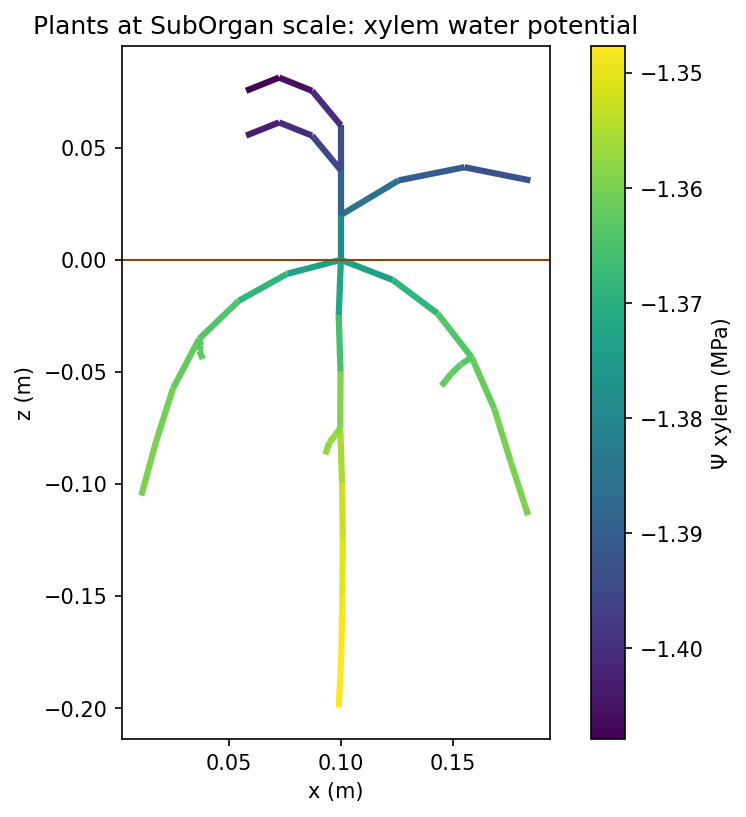
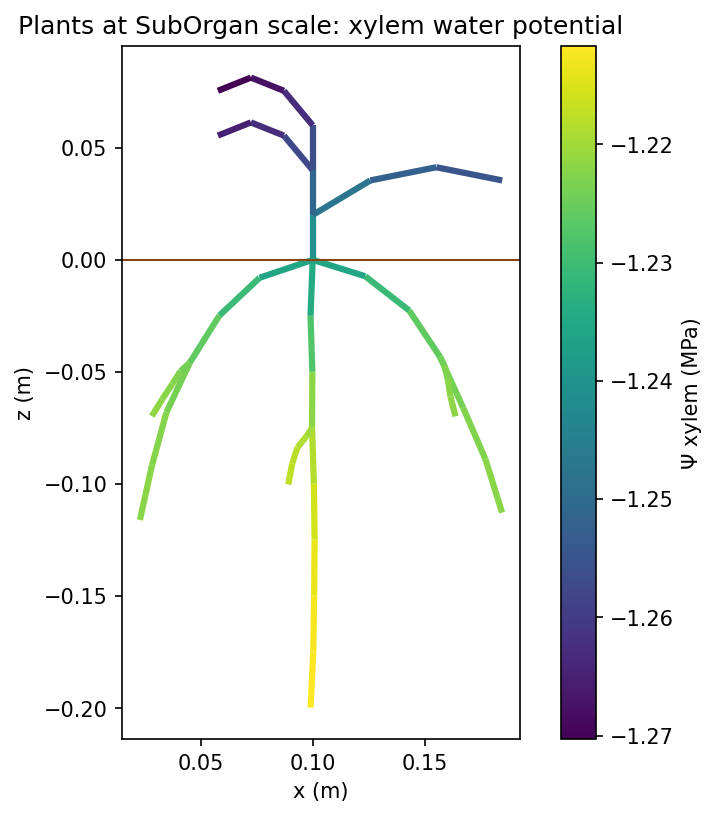
SPAC example: longer laterals

diff --git a/examples/soil_plant_atmosphere/seedling.py b/examples/soil_plant_atmosphere/seedling.py
@@ -36,8 +36,8 @@ def build_seedling(g, plant, parameters):
     from emergence_angle below the horizontal towards the vertical (gravitropism, per segment); every segment with
     its anatomy.
     """
-    p = dict(n_phytomers=3, n_leaf_elements=3, n_root_axes=3, n_root_segments=6, n_lateral_segments=3,
-             stem_length=0.02, leaf_length=0.03, leaf_width=0.005, root_length=0.025, lateral_length=0.015,
+    p = dict(n_phytomers=3, n_leaf_elements=3, n_root_axes=3, n_root_segments=6, n_lateral_segments=4,
+             stem_length=0.02, leaf_length=0.03, leaf_width=0.005, root_length=0.025, lateral_length=0.02,
              emergence_angle=15., gravitropism=0.35, lateral_gravitropism=0.08, tortuosity=0.08,
              pivot_emergence_angle=80., pivot_gravitropism=0.8, n_pivot_segments=8)
     p.update({key: value for key, value in parameters.items() if key in p})

diff --git a/devlog.md b/devlog.md
@@ -2041,3 +2041,4 @@ Per-file counts:
 - **Seedling generator externalised (your request):** the architecture, anatomies and junctions (and their codes) moved from `components.py` to `seedling.py`; `SeedlingStructure.initiate_plant` calls it. Results identical.
 - **Root architecture (your request):** three first-order roots emerging 15° below the horizontal at the collar and bending towards the vertical by a gravitropism coefficient (0.35 per segment), with a seeded tortuosity per plant; laterals with a weaker gravitropism. Converges as before (5 and 6 steps), with balances closed.
 - **Pivot root (your request):** the first of the three first-order roots is a pivot (80° below the horizontal, gravitropism 0.8, 8 segments, down to about 20 cm); the two others spread along ±x and bend down. Converges in 5 and 6 steps.
+- **Longer laterals (your request):** 4 segments of 2 cm (8 cm, from 4.5 cm). Converges in 5 and 6 steps.

diff --git a/examples/soil_plant_atmosphere/README.md b/examples/soil_plant_atmosphere/README.md
@@ -26,7 +26,7 @@ Volumes in mm³ keep the solves' residuals well above the solver's absolute tole
 
 ## One plant
 
-The scene converges in five steps (largest change of Ψ: 2.5e-01, 1.2e-03, 1.3e-05, 2.0e-07 MPa). Transpiration
+The scene converges in five steps (largest change of Ψ: 2.4e-01, 9.9e-04, 8.6e-06, 1.1e-07 MPa). Transpiration
 (0.076 mm³ s⁻¹) equals the root uptake and the water taken from the soil; the water table supplies it and the soil
 evaporation.
 
